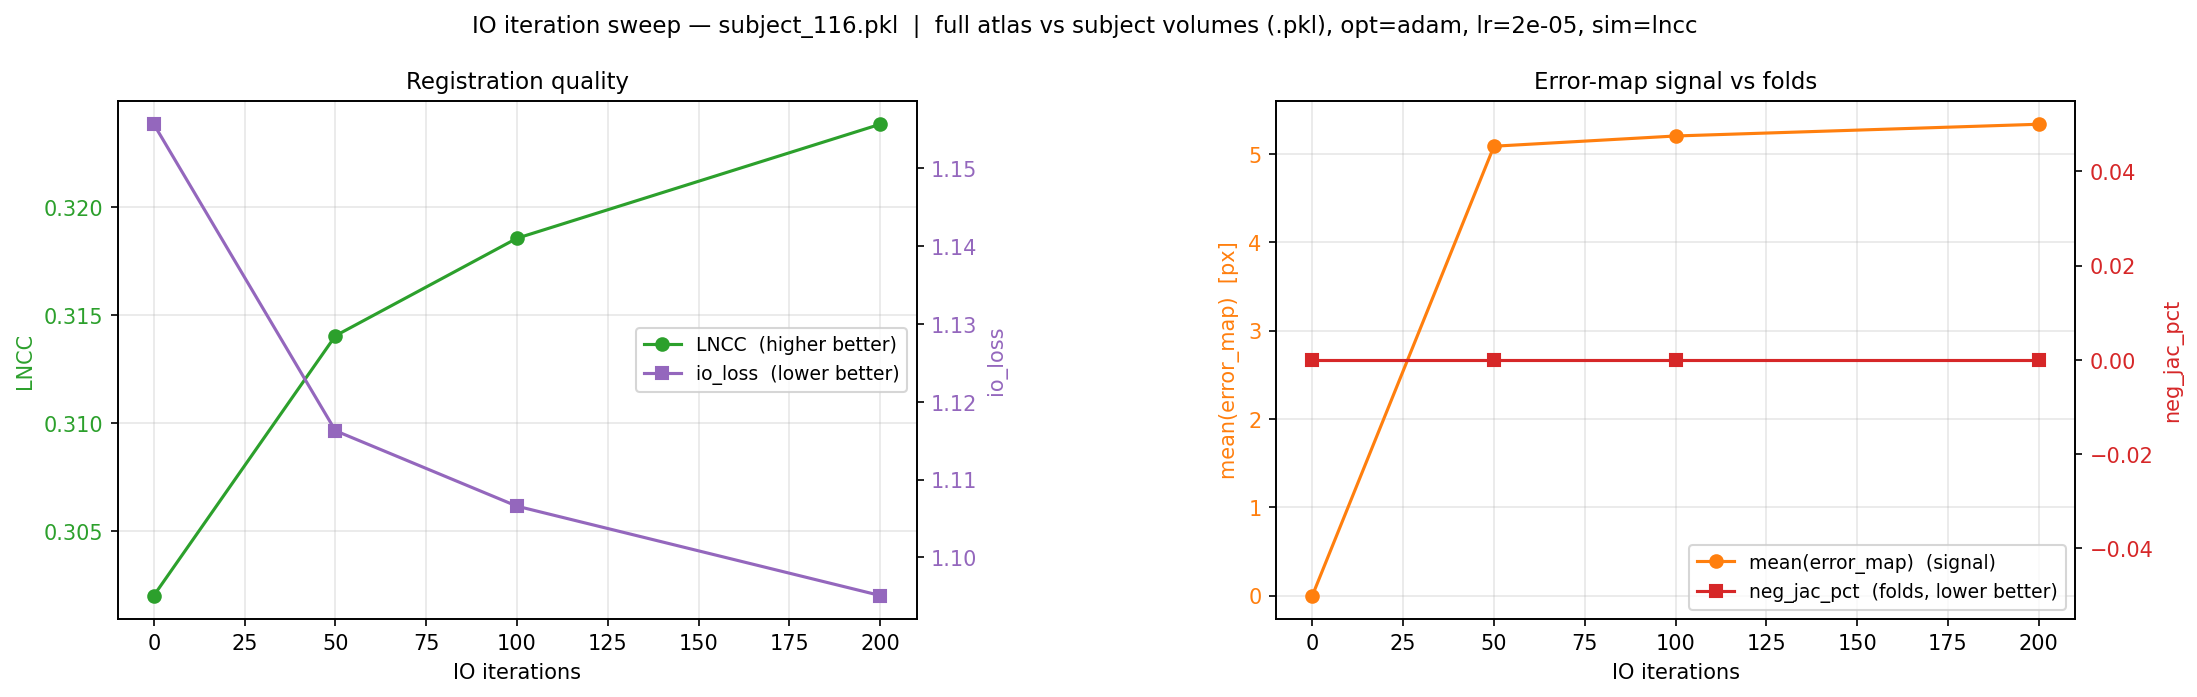
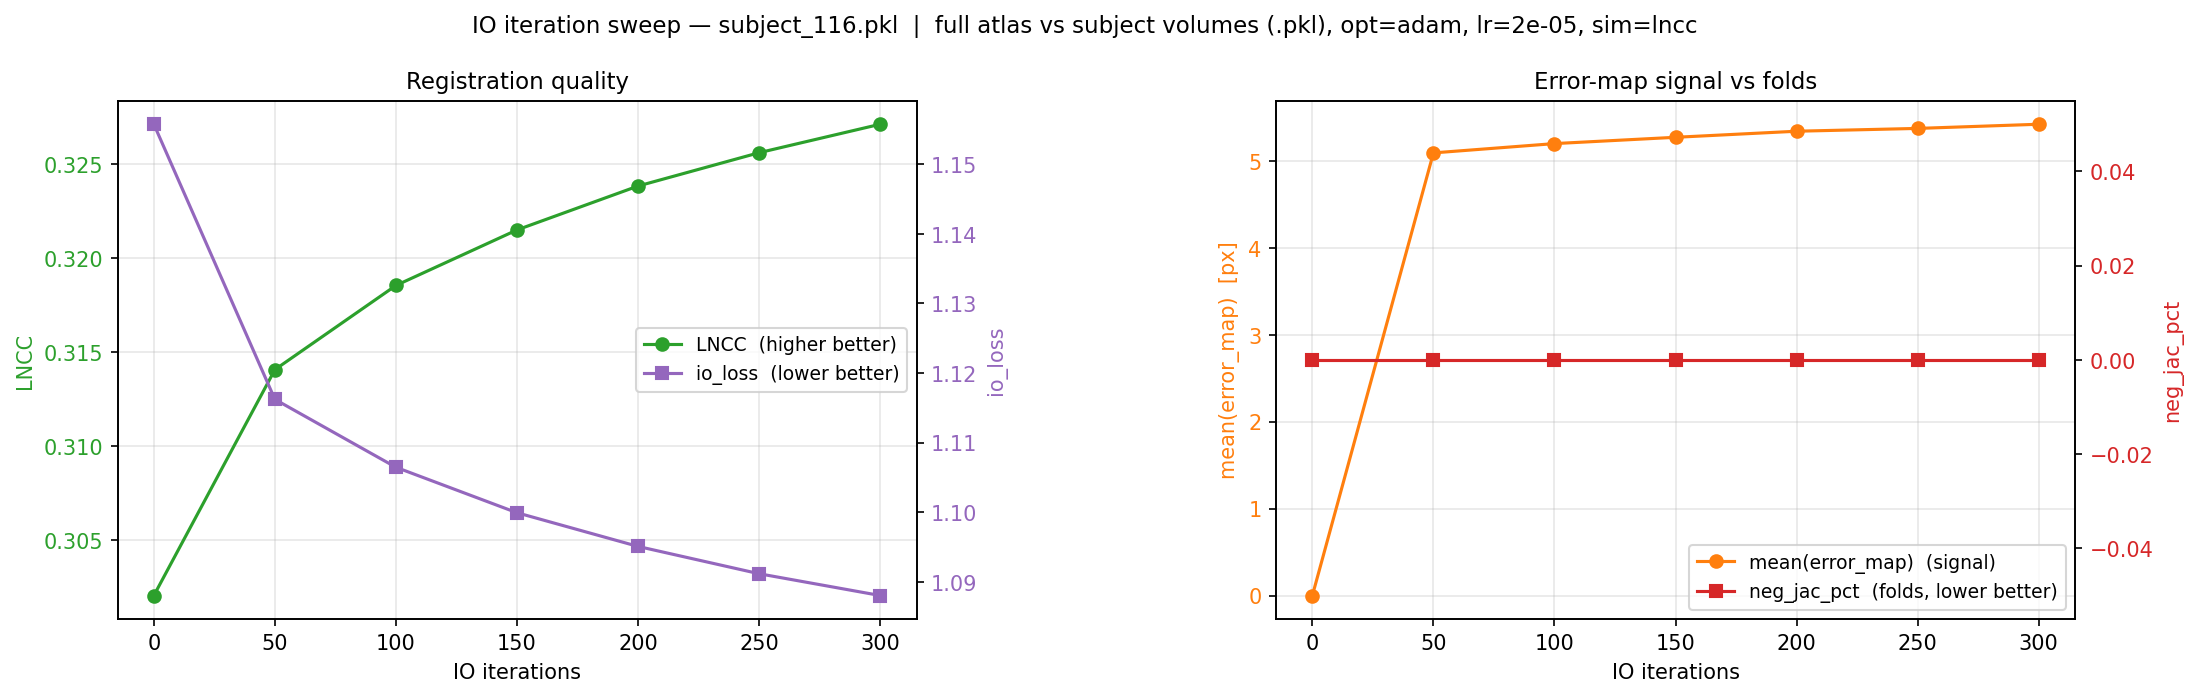
sweep io 3d runs added

diff --git a/experiments/unigrad-io/sweep_io_iterations.py b/experiments/unigrad-io/sweep_io_iterations.py
@@ -93,7 +93,7 @@ LOCAL_SWEEP_SAVE = Path("./assets/images/unigrad-io/sweep_io.png")
 
 # IO iteration snapshots (UniGradICON default IO length is 50; full 2d sweep adds dense samples).
 CHECKPOINTS_DEFAULT_2D = "0,50,100,150,200,250"
-CHECKPOINTS_DEFAULT_3D = "0,50,100,200"
+CHECKPOINTS_DEFAULT_3D = "0,50,100,150,200,250,300"
 
 
 def _tqdm_common_kwargs() -> dict:
